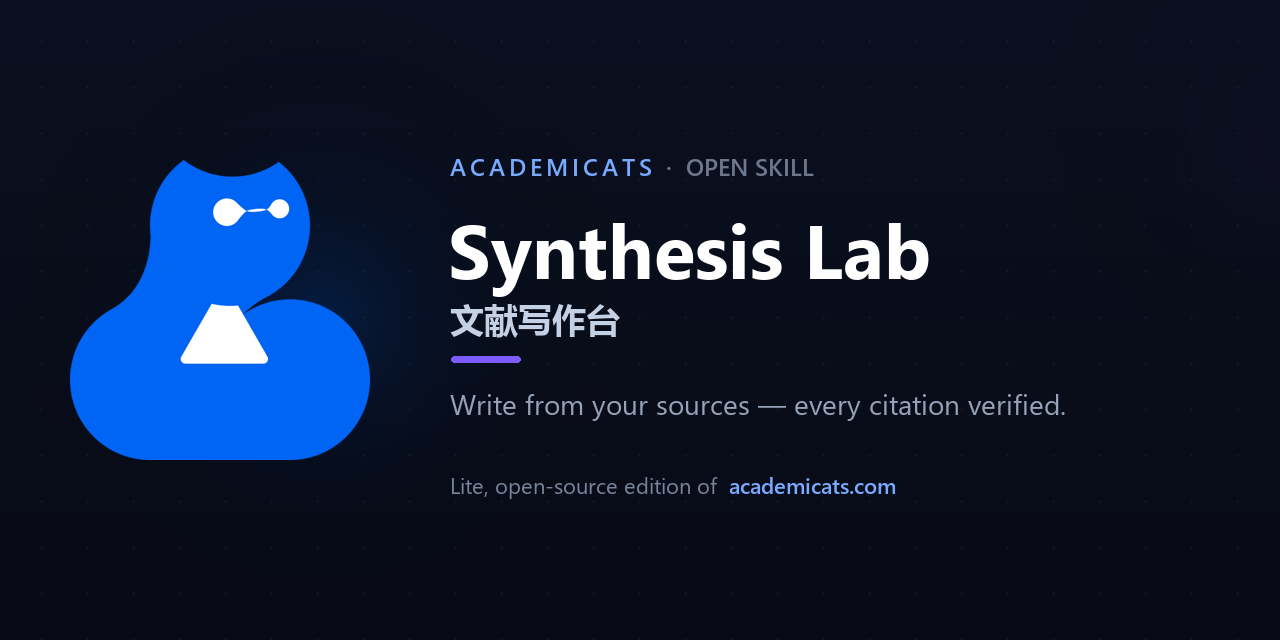
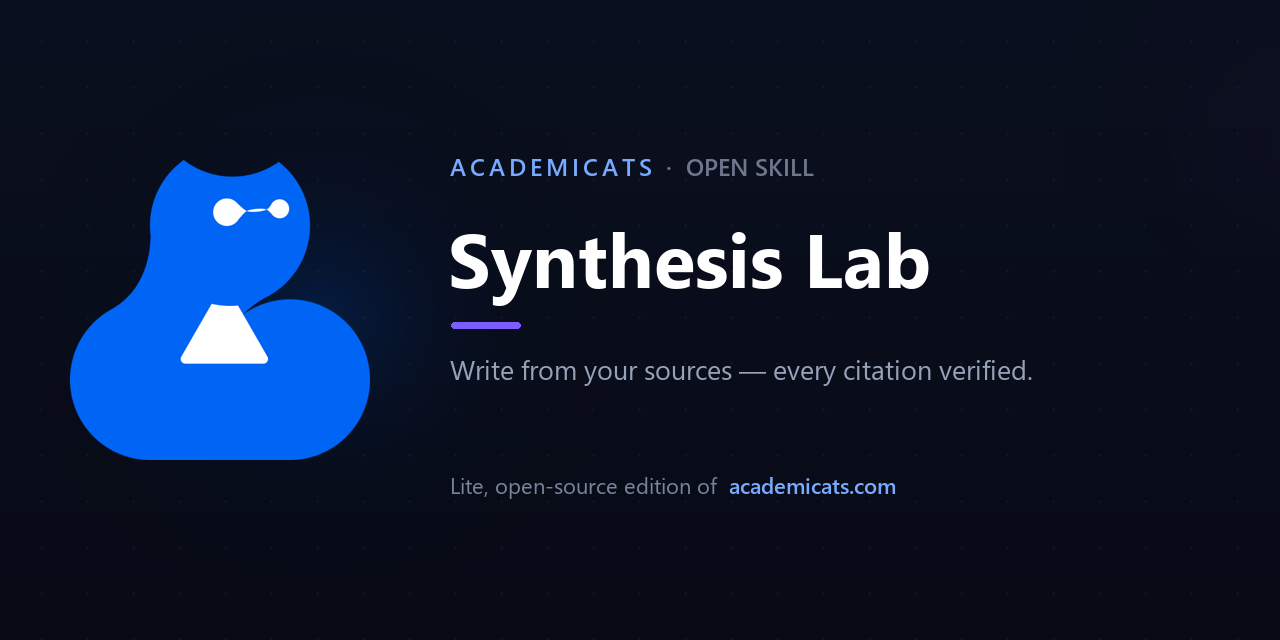
feat: monolingual covers, one-click family installer, UX polish
- Separate English (cover.png) and Chinese (cover-zh.png) banners so each
  README is fully single-language.
- Add install.sh: one command installs all three skills + pypdf into Claude Code.
- READMEs: skill-family cross-links + install-all line + FAQ.

Changed region(s): [[0.3438, 0.3438, 0.8125, 0.5938], [0.3438, 0.625, 0.8438, 0.6562], [0.625, 0.3438, 0.6562, 0.375]]

diff --git a/README.zh-CN.md b/README.zh-CN.md
@@ -2,7 +2,7 @@
 
 [English](README.md) · **中文**
 
-<img src="assets/cover.png" alt="AcademiCats · Synthesis Lab" width="100%">
+<img src="assets/cover-zh.png" alt="AcademiCats · Synthesis Lab" width="100%">
 
 <br>
 
@@ -88,6 +88,8 @@ git clone https://github.com/jy1529098645-gif/Cat_synthesis_lab.git ~/.claude/sk
 - 🔍 [论文检索](https://github.com/jy1529098645-gif/Cat_paper_search) —— 找文献、读文献
 - ✍️ **文献写作台** *（你在这里）* —— 据你的文献写出有据成稿
 - 🧪 [模拟同行评审](https://github.com/jy1529098645-gif/Cat_paper_review) —— 对你自己的草稿做同行评审
+
+**一次装齐三个** —— clone 任意一个仓库后运行 `bash install.sh`。
 
 ## 🙋 常见问题
 

diff --git a/README.md b/README.md
@@ -89,6 +89,8 @@ Three open skills that chain into one research workflow — install any or all:
 - ✍️ **Synthesis Lab** *(you are here)* — write grounded papers from your sources
 - 🧪 [Paper Review](https://github.com/jy1529098645-gif/Cat_paper_review) — peer-review your own draft
 
+**Install all three at once** — clone any one repo, then run `bash install.sh`.
+
 ## 🙋 FAQ
 
 - **It didn't trigger?** Restart Claude Code after installing, and phrase your message as a task — *"write the lit review from these papers …"*.